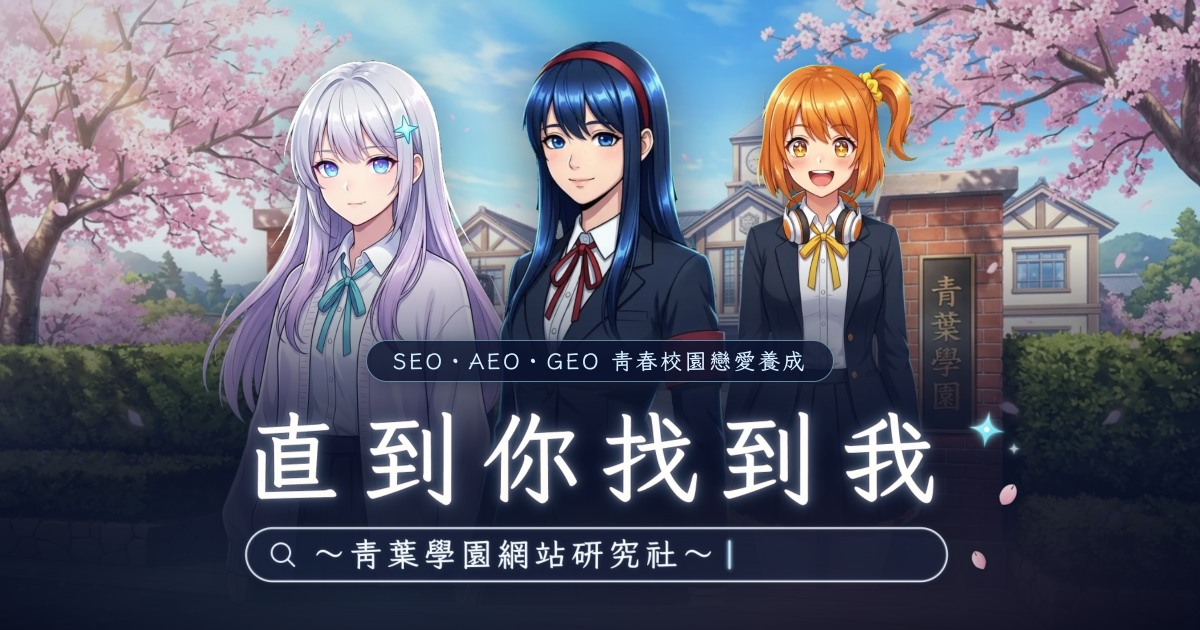
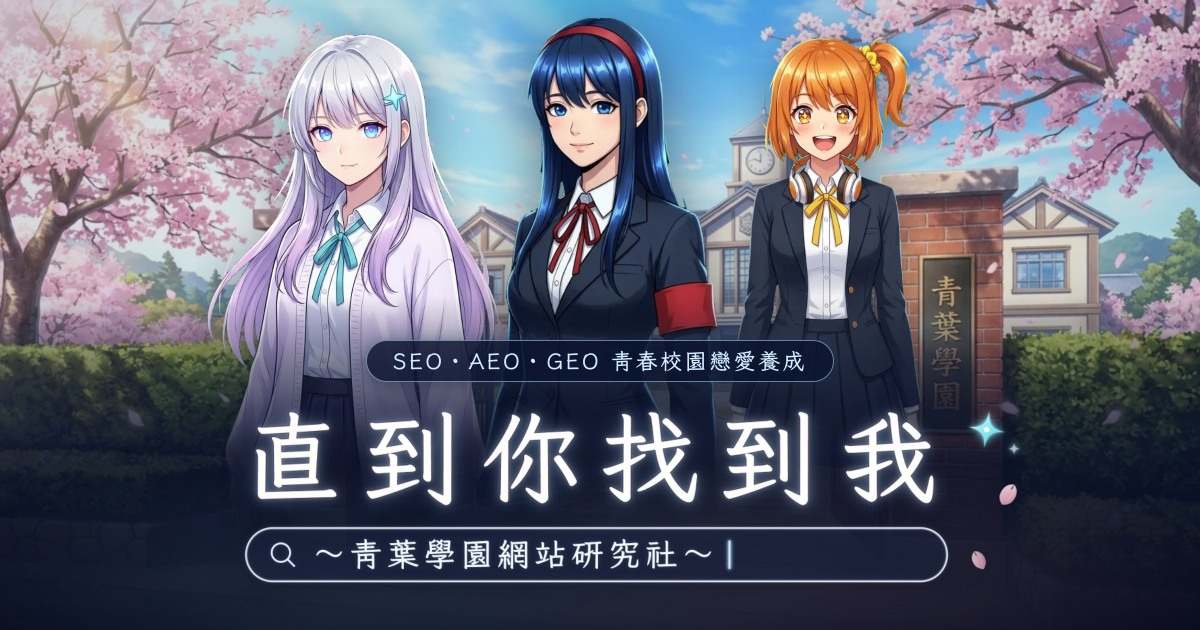
修正分享預覽圖中凜的紅色學生會臂章遮擋問題並更新紀錄

diff --git a/docs/art-requests.md b/docs/art-requests.md
@@ -1087,9 +1087,10 @@ smiling, smirk, upturned mouth corners, happy expression, cheerful face, looking
     - 主標「直到你找到我」以 **LXGW WenKai TC（Bold）** 單行寬字距排字，暖白填色搭配淡天藍與淡櫻粉柔和外光暈及細緻深藍投影，取消厚描邊與粉彩漸層。
     - 副標放入細線圓角半透明白框搜尋列，內含同色細線放大鏡圖示、「～青葉學園網站研究社～」與發光細直線文字游標 `|`，取代舊版放大鏡愛心徽章。
     - 右側以一顆呼應星野未來髮夾的青／淡天藍四芒星光與兩片無粗框柔和櫻花瓣點綴，保持克制與呼吸感。
-  - `public/og-image.jpg`（1200×630 JPEG，約 195 KB）：
+  - `public/og-image.jpg`（1200×630 JPEG，約 198 KB）：
     - 不在舊圖上塗改，改以 `public/art/bg/gate.webp` 搭配 `public/art/mirai/smile.webp`（左）、`public/art/rin/smile.webp`（中）、`public/art/hare/happy.webp`（右）重新合成，保留右側「青葉學園」門牌且不遮擋任何角色臉部。
     - 下方加深色漸層，置中疊放膠囊標籤「SEO・AEO・GEO 青春校園戀愛養成」與新版 `logo.webp`，縮至 400×210 小縮圖仍清晰可讀。
+    - **退回修正紀錄（2026-11-28）**：上一版 `og-image.jpg` 中凜的紅色學生會臂章高度與膠囊標籤重疊且緊貼晴的立繪而被遮蔽；本次微調三位女主角的站位、間距、縮放、圖層順序（凜置於最前）與下方漸層起點，使凜的紅色臂章完整清楚可見，同時維持三人臉部、右側「青葉學園」門牌、膠囊標籤與 Logo 位置不變（`logo.webp` 內容不變）。
   - `public/favicon.png` 與 `public/apple-touch-icon.png` 維持不變；未使用 Colab（純本機腳本向量／字型排版與素材合成）。
 - **腳本與字型授權**：
   - 腳本：`scripts/make-title-art.mjs`（執行 `node scripts/make-title-art.mjs` 即可重產兩張圖）。
